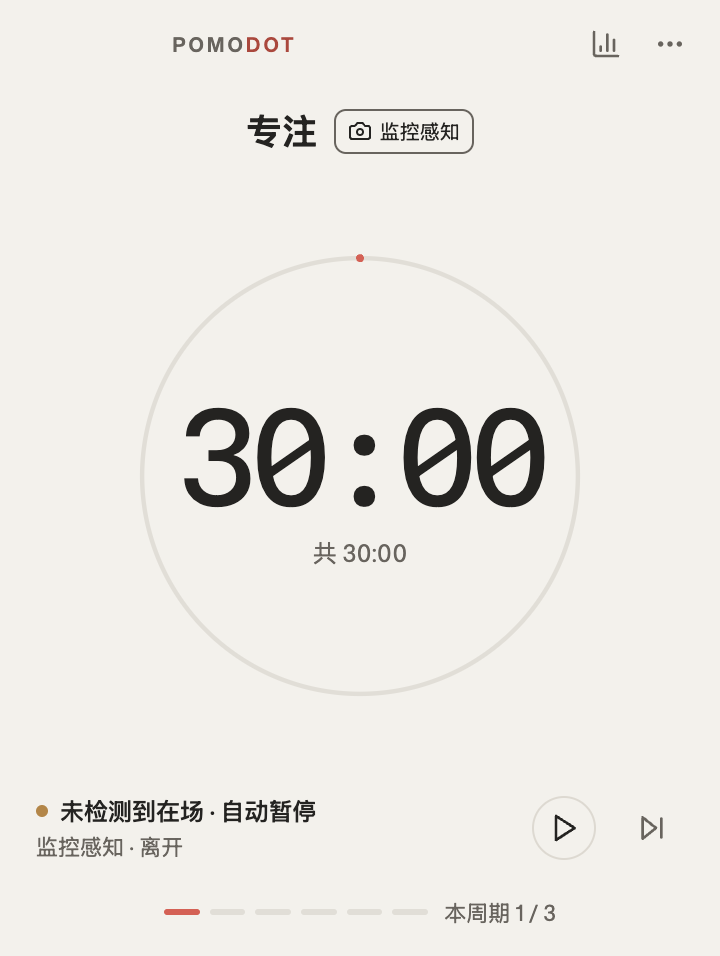
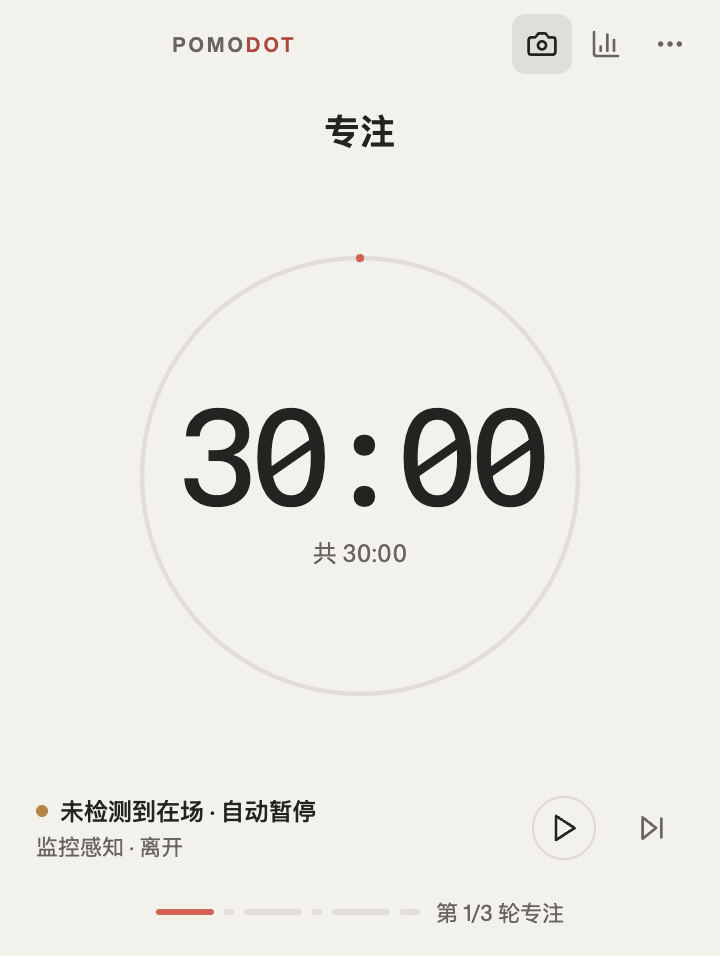
docs: record sensing interaction rules and verified delivery

diff --git a/docs/request-flow.md b/docs/request-flow.md
@@ -11,21 +11,21 @@ React -> preload -> Main IPC -> TimerEngine -> SqliteStore
 
 Renderer 启动时并行读取计时快照、设置和摄像头生命周期状态，并订阅经 schema 校验的事件。
 
-点击开始、暂停、继续、下一轮或重置时，React 调用 `window.pomodoro.command`。Preload 和 Main 分别做 schema 校验，Main 将命令交给唯一 TimerEngine；成功迁移后保存快照，并通过 `pomodoro:event` 广播到窗口和托盘。Renderer 从事件更新显示，不自行扣减权威剩余时间。
+点击开始、暂停、继续、下一轮或重置时，或在计时器页按空格执行开始/暂停/继续时，React 调用 `window.pomodoro.command`。Preload 和 Main 分别做 schema 校验，Main 将命令交给唯一 TimerEngine；成功迁移后保存快照，并通过 `pomodoro:event` 广播到窗口和托盘。Renderer 从事件更新显示，不自行扣减权威剩余时间。空格不拦截表单、菜单、其他控件、统计或设置页，不重复处理长按、组合键及输入法组合状态。
 
 Main 每秒读取 `powerMonitor.getSystemIdleTime()`，只将秒数交给 TimerEngine。TimerEngine 根据阈值计算 `present/away`，遵循专注、活动休息和桌前休息规则；采样失败安全暂停并显示降级状态，用户明确继续后可手动计时，首次有效样本恢复自动化。suspend 事件冻结运行轮次并写入安全暂停状态；lock-screen 建立门禁，unlock-screen 解除门禁但等待下一有效样本才决定恢复。静止且状态未变化的输入不重复写入数据库。
 
-主界面默认「触控」。用户选择「监控」时，Renderer 通过 `updateSettings({ focusPresenceSource: "camera" })` 提交选择；Main 先安全暂停运行中的专注、清空旧摄像头状态，再签发新的 `{ enabled, generation }`，经 `camera.state` 通知 Renderer。Renderer 只在启用状态请求视频权限，在本地初始化 MediaPipe/BlazeFace 并约每秒检测两次，约每 500ms 通过 `reportCameraPresence(presence, generation)` 提交三态。Preload 和 Main 校验严格的 `{ presence, generation }`，Main 拒绝旧代次报告，再由 TimerEngine 根据当前轮次和手动暂停锁处理。两种休息始终根据系统输入管理；打开统计或设置不会重开摄像头。
+主界面默认「触控」。用户选择「监控」时，Renderer 通过 `updateSettings({ focusPresenceSource: "camera" })` 提交选择；Main 在当前实际来源变化时安全暂停运行中的轮次、清空旧摄像头状态，再签发新的 `{ enabled, generation }`，经 `camera.state` 通知 Renderer。Renderer 只在启用状态请求视频权限，在本地初始化 MediaPipe/BlazeFace 并约每秒检测两次，约每 500ms 通过 `reportCameraPresence(presence, generation)` 提交三态。Preload 和 Main 校验严格的 `{ presence, generation }`，Main 拒绝旧代次报告，再由 TimerEngine 根据当前轮次和手动暂停锁处理。监控模式下，在场自动开始专注、离席自动开始活动休息；桌前休息始终使用系统输入。未结束的专注离席只暂停，不提前切轮。打开统计或设置不会重开摄像头。
 
 Renderer 为权限、视频和模型启动设置 20 秒期限，Main 等待首个有效样本的上限为 25 秒。摄像头权限拒绝、设备中断、启动超时、有效报告间隔超过 5 秒或 Renderer 丢失时，Main 将摄像头标为 `unknown`、停止旧代次并持久化回退触控，通过 `settings.changed` 和可恢复错误说明回退原因。专注等待新的输入样本，手动暂停保持锁定。选择触控、锁屏/睡眠和退出会释放摄像头；锁屏/睡眠恢复若仍选监控，重新签发代次并等待新样本。摄像头帧、检测框与设备信息不经过 preload，也不写入 SQLite。
 
-专注完成后，TimerEngine 生成等待条件的休息轮并广播快照。Main 的输入采样驱动休息自动开始或恢复。休息的剩余时间仍等于总时长，且当前处于 `idle` 或因 `break-condition` 自动暂停时，Renderer 提供“手动开始休息”。用户点击后，前者发送 `start`，后者发送 `resume`。
+专注完成后，TimerEngine 生成等待条件的休息轮并广播快照。Main 使用当前实际输入源或摄像头源驱动自动休息，不要求先点击播放。采用输入的休息准备期由有效闲置样本推导 `automation.breakPreparation`；默认先显示“无输入 40 秒开始休息”，第 30 秒起显示 `10…1`，第 40 秒才开始正式休息。中途输入重新等待完整阈值，准备时间不抵扣正式休息剩余时间；该准备状态不进入检查点。
 
-休息已有进度、因最近有输入而暂停时，Renderer 显示“有输入 · 休息暂停”，按钮改为“继续计时”。用户点击后发送 `resume`。手动暂停和输入故障也提供“继续计时”，由 TimerEngine 按原有规则处理。
+专注中手动暂停形成锁，只有用户继续才能解除。休息中暂停不形成永久锁：未点暂停或点过暂停，都继续参与自动休息；下一有效休息条件可自动开始或恢复，不额外强制等待一遍阈值。实际键鼠操作产生新的输入时，输入来源会自然重新等待完整阈值。旧检查点中手动暂停的休息轮在恢复时转为自动等待，进度不变，旧的专注锁仍保留。
 
 拖动计时器留白时，由系统移动窗口。拖动边缘时，Main 按内容区域约束尺寸，Renderer 根据可用宽高排版。初始内容区域为 360×478，可缩至 160×180，高度最多为宽度的 1.5 倍。缩到最小时，暂停原因和继续按钮仍然可见。点击继续才会向 Main 发送 `resume`。
 
-在计时器上点击统计图标，Renderer 在当前窗口切换到统计页。点击“更多操作”可打开设置、查看统计或重置当前轮次。统计和设置均可返回计时器。
+在计时器右上角，感知模式按钮位于统计图标左侧，提交模式设置时仍经过同一 IPC 链。在计时器上点击统计图标，Renderer 在当前窗口切换到统计页。点击“更多操作”可打开设置、查看统计或重置当前轮次。统计和设置均可返回计时器。底部周期条按各阶段计划时长分配宽度，当前轮按已分配的总时长显示；当前位置与真实完成量分别命名。
 
 设置页面提交后，Main 验证 patch、持久化设置、更新置顶状态并广播快照。统计页面调用 `getStatistics`，由 Store 按本机日期聚合完成专注记录。Renderer 不能访问 SQLite、Node、Electron 或任意未列出的 channel。
 

diff --git a/docs/roadmap.md b/docs/roadmap.md
@@ -2,16 +2,16 @@
 
 ## 当前交付：Phase 1 与本地摄像头感知
 
-当前实现以 Electron + React + TypeScript 为唯一运行架构，不再有 Go/Rust sidecar。代码和自动化验证已覆盖以下闭环；发布门仍需完成真实平台验证：
+当前实现以 Electron + React + TypeScript 为唯一运行架构，不再有 Go/Rust sidecar。当前交付与本轮交互调整范围如下；历史自动化结果见对应验证记录，本轮结果需单独记录，发布门仍需完成真实平台验证：
 
-- 主进程唯一 TimerEngine：默认 `30/5/30/5/30/10`、开始/暂停/继续/下一轮/重置、手动暂停锁、自动暂停与恢复、睡眠/重启安全恢复。
+- 主进程唯一 TimerEngine：默认 `30/5/30/5/30/10`、开始/暂停/继续/下一轮/重置、专注手动暂停锁、休息继续参与自动化、自动暂停与恢复、睡眠/重启安全恢复。
 - `powerMonitor.getSystemIdleTime()` 系统级输入采样，输入故障可见且进入手动安全回退。
 - active/desk 休息策略、设置持久化与当前轮/下一轮生效边界。
 - SQLite 事务迁移、完成专注记录、今日/本周/最近 52 周统计。
 - 托盘、通知、关闭到托盘、置顶、事件广播、浅色/深色/跟随系统主题。拖动窗口边缘可缩成 160×180 的挂件，高度最多为宽度的 1.5 倍。小窗仍显示轮次、剩余时间、暂停原因、圆形操作按钮和统计入口。
 - 受限 preload、严格 CSP、Zod 运行时 IPC 校验、Vitest 状态机测试和 Playwright Electron E2E。
 - 单实例数据保护、锁屏门禁、检测故障下显式手动计时、字段级设置错误恢复、存储故障备份与用户选择重建、实时统计事件；静止检查点和托盘更新去重。
-- 按用户明确需求增加 Phase 2 本地摄像头感知：默认触控，主动选择监控，MediaPipe/BlazeFace 本地推断，主进程按三态信号管理专注；两种休息继续使用输入。此范围变更不代表 Phase 1 的所有真机发布门已通过。
+- 按用户明确需求增加 Phase 2 本地摄像头感知：默认触控，主动选择监控，MediaPipe/BlazeFace 本地推断，主进程按三态信号自动开始/暂停监控专注与活动休息；桌前休息继续使用输入。此范围变更不代表 Phase 1 的所有真机发布门已通过。
 
 ## Phase 1 发布门
 
@@ -32,17 +32,17 @@
 
 自动化验证与真机验收分别记录，模拟媒体流和模拟电源事件不能替代操作系统权限及物理设备检查。
 
-1. 状态机覆盖源切换、监控专注不受输入干扰、两种休息仍采用输入、unknown 安全暂停、手动暂停锁、睡眠/锁屏/重启后等待新样本。
-2. Renderer 验证默认触控不调用摄像头、模式控件与状态提示、初始化取消、模型/视频失败后释放资源，以及迟到异步结果清理。
-3. Electron E2E 验证严格 preload/IPC、旧代次拒绝、初始化/心跳超时回退和设置事件同步。原生 SQLite 验证监控设置重启保留、检查点没有在场状态或检测代次。
+1. 状态机覆盖源切换、监控专注自动开始且不受输入干扰、监控活动休息采用摄像头、桌前休息采用输入、unknown 安全暂停、专注手动暂停锁、休息暂停不锁自动化，以及睡眠/锁屏/重启后等待新样本。
+2. Renderer 验证默认触控不调用摄像头、右上角模式按钮位置、空格快捷键边界、休息准备期最后 10 秒可见倒数、按时长分配的周期条、初始化取消、模型/视频失败后释放资源，以及迟到异步结果清理。
+3. Electron E2E 验证严格 preload/IPC、旧代次拒绝、初始化/心跳超时回退和设置事件同步。原生 SQLite 验证监控设置重启保留、检查点没有在场状态、准备期倒数或检测代次；旧的手动暂停休息可恢复自动等待，专注锁保持有效。
 4. 打包产物应包含本地模型、SIMD/非 SIMD WASM 和许可证；断网时可初始化检测，CSP 不依赖远程脚本或模型。
 
 | 真机项目 | macOS | Windows |
 | --- | --- | --- |
 | 默认触控无摄像头请求；首次允许/拒绝授权及系统设置撤销 | 待验收 | 待验收 |
-| 正常光照下在场、转头、离开 3 秒、回归；手动暂停锁 | 待验收 | 待验收 |
+| 正常光照下专注在场自动开始、活动休息离席开始、转头/回归；专注手动暂停锁 | 待验收 | 待验收 |
 | 外接摄像头拔出、设备占用、断网启动、重复切换释放指示灯 | 待验收 | 待验收 |
-| 最小化/隐藏/托盘后台检测；睡眠/锁屏释放与恢复新样本 | 待验收 | 待验收 |
+| 最小化/隐藏/托盘后台检测；睡眠/锁屏释放与恢复新样本；准备倒数重置 | 待验收 | 待验收 |
 | 安装包摄像头用途声明、权限提示和实际资源加载 | 待验收 | 待验收 |
 
 本表在本次代码开发时不宣称真机通过。执行验收时补充 OS、架构、构建/提交及结果；任一平台未通过时不得把模拟 E2E 记为该平台已通过。

diff --git a/README.md b/README.md
@@ -36,10 +36,10 @@ beta.2 已知问题：
 
 ## 主要功能
 
-- **可配置节奏**：默认 `30 / 5 / 30 / 5 / 30 / 10` 分钟，三轮专注后进入长休；可调整各轮时长和每周期专注轮数。
-- **输入闲置检测**：默认连续 40 秒无系统输入后暂停专注，恢复输入后按状态自动继续；手动暂停不会被自动解除。
-- **感知模式（开发版）**：默认触控，可主动切换监控，以本地摄像头在场信号管理专注。摄像头失败时提示并回退触控；两种休息继续使用系统输入。
-- **两种休息模式**：活动休息与桌前休息。当前均基于无输入信号判断开始与暂停，不代表已验证离席、走动或运动。
+- **可配置节奏**：默认 `30 / 5 / 30 / 5 / 30 / 10` 分钟，三轮专注后进入长休；可调整各轮时长和每周期专注轮数，底部周期条按计划时长分配宽度并标明当前位置。
+- **输入闲置检测**：默认连续 40 秒无系统输入后暂停专注，恢复输入后按状态自动继续；专注中的手动暂停不会被自动解除。
+- **感知模式（开发版）**：默认触控，右上角统计按钮左侧可切换监控。监控会在确认在场后自动开始专注，离席后自动计时活动休息；摄像头失败时提示并回退触控。
+- **两种休息模式**：活动休息在监控模式下依据摄像头离席，在触控模式下依据无输入；桌前休息始终依据无输入。准备期最后 10 秒可见倒数，不抵扣正式休息时长；休息按过暂停仍可自动恢复，不代表已验证走动或运动。
 - **本地统计**：今日、本周和最近 52 周热力图；只有完整完成的专注轮才计入统计，跳过或重置不计入。
 - **桌面控制**：拖动窗口边缘缩放计时器，拖动留白移动窗口。支持置顶、托盘菜单、系统通知，以及浅色/深色/跟随系统主题。
 - **恢复与数据保护（主分支）**：睡眠与重启不补计离线时间；锁屏门禁、输入故障下的显式手动计时、单实例保护、SQLite 故障备份与用户确认重建。
@@ -54,12 +54,12 @@ beta.2 已知问题：
 
 ### 基本使用
 
-1. 打开应用，点击开始进入第一轮专注。
-2. 专注完整结束后进入休息轮。休息默认等待无输入条件，也可手动开始；再次输入仍可能自动暂停休息。
-3. 使用暂停/继续控制当前轮，或点击下一步跳过；下一轮专注需要手动开始。
+1. 默认触控模式下，点击开始或按空格进入第一轮专注；监控模式确认在场后自动开始首次和下一轮专注。
+2. 专注完整结束后进入休息轮，满足对应离席或无输入条件即自动开始。默认输入准备期显示“无输入 40 秒开始休息”，无输入到第 30 秒显示 `10…1`，第 40 秒正式计时；出现输入会重新等待。
+3. 空格可开始、暂停或继续当前轮，也可点击下一步跳过。专注中的手动暂停锁住自动恢复；休息无论是否按过暂停，满足条件仍会自动计时。设置、统计、输入框和菜单中的空格不作为全局计时快捷键。
 4. 点击计时器右上角的统计图标查看专注记录，点击“更多操作”打开设置。修改节奏后，正在运行的轮次仍按原计划计时。[设置生效时机](docs/product-spec.md#2-默认配置与设置)
 5. 在开发版中，拖动窗口边缘调整大小，拖动计时器上的留白移动窗口。内容区域最小为 160×180，宽 160 px 时最高可拉到 240 px。小窗仍显示轮次、剩余时间和暂停原因，可直接点圆形播放按钮继续，或点统计图标查看记录。[查看最小窗口](docs/assets/screenshots/drag-minimum-interrupted-break.png)
-6. 开发版主界面的感知模式默认触控。选择监控并授予摄像头权限后，以人脸在场信号管理专注；切回触控即可停止摄像头。监控权限与实际设备仍需按[摄像头验证门](docs/roadmap.md#摄像头验证门)验收。
+6. 开发版主界面的感知模式默认触控。选择监控并授予摄像头权限后，以人脸在场信号管理专注和活动休息；切回触控即可停止摄像头。监控权限与实际设备仍需按[摄像头验证门](docs/roadmap.md#摄像头验证门)验收。
 
 ## 本地数据与隐私
 

diff --git a/docs/sensing-interaction-validation.md b/docs/sensing-interaction-validation.md
@@ -1,0 +1,33 @@
+# 感知交互修订验证
+
+2026-11-08，按用户确认的交互规则修订 `codex/camera-presence`。计时规则提交为 `6710635`，界面、快捷键和跨进程测试提交为 `c4cea9a`；文档提交另行收尾。平台为 Apple Silicon、macOS 26.4.1（25E253）、Node.js 24.15.0、Electron 33.4.11。
+
+## 结果
+
+- 触控专注由按钮或空格开始；监控专注在确认在场后自动开始，包括首次和下一轮。专注手动暂停锁优先。
+- 监控活动休息由摄像头离席启动，桌前休息由系统输入闲置启动。休息没暂停或按过暂停都继续参与自动计时，不建立手动锁；旧版本休息锁在重启时规范化，保留剩余时长。
+- 输入休息准备期显示“无输入 40 秒开始休息”，最后十秒显示倒数；输入回归重新等待。准备时间不抵扣正式休息时长。
+- 感知按钮位于统计按钮左侧；底部阶段条按计划时长分配宽度，文字区分当前位置与已完成量。
+
+## 已执行检查
+
+| 检查 | 结果 |
+| --- | --- |
+| `npm run lint`、`npm run typecheck` | 通过 |
+| `npm run test` | 208 项通过，其中 TimerEngine 72、共享契约 12、Renderer 54 |
+| `npm run test:store` | 17 项真实 SQLite 测试通过；包含旧休息锁恢复与准备提示不入检查点 |
+| `npm run test:e2e` 后同步旧文案断言，再执行 `npx playwright test` | 完整 21 项通过；首轮仅两项旧文案断言不匹配，新行为测试已通过 |
+| 真实空格键、主按钮原生激活回归 | 使用 Playwright `keyboard.press("Space")` 在已聚焦主按钮上开始、暂停、继续，单独重跑通过；设置说明修正后的 54 项组件测试也通过 |
+| `node scripts/validate-renderer-layout.mjs` | 通过；160×180 下三个头部按钮可点击，不覆盖 macOS 原生按钮；实际阶段宽度符合 6:1 和 2:1 比例 |
+| `CSC_IDENTITY_AUTO_DISCOVERY=false npm run package --workspace=@pomodoro/desktop -- --config.directories.output=dist/interaction` | ARM64 应用与 DMG 生成成功，`hdiutil verify` 校验通过；未签名 |
+| 指向新版打包应用运行 `camera.e2e.ts` | 6 项通过，包含真实本地模型推理、自动专注/活动休息、桌前输入休息、暂停逻辑或和空格操作 |
+
+状态机和组件回归先在旧实现上见红，再修改实现。跨进程用例也确认旧版缺少右上角模式入口。所有自动化使用独立临时用户数据，摄像头用例使用 Chromium 模拟设备；没有替用户点击摄像头授权，也没有在测试中读取物理摄像头。
+
+截图已同步：[触控初始页](assets/screenshots/timer-light.png)、[监控离开暂停](assets/screenshots/camera-monitor.png)、[休息准备倒数](assets/screenshots/break-preparation.png)、[最小休息窗口](assets/screenshots/drag-minimum-interrupted-break.png)。文档截图随当前开发版更新，历史截图可通过对应 Git 提交复现。
+
+## 本地交付与边界
+
+新版应用位于 `apps/desktop/dist/interaction/mac-arm64/Pomodoro Timer.app`，安装镜像位于 `apps/desktop/dist/interaction/Pomodot-0.1.0-beta.2-mac-arm64.dmg`。独立输出目录避免构建时覆盖用户正在运行的旧包。已正常退出旧实例并打开新版，核对界面资源路径指向新构建、模式按钮在统计左侧、页脚显示“第 1/3 轮专注”；保留原用户数据，没有代用户启动计时或摄像头。
+
+Windows 真机、OS 授权撤销、物理摄像头在不同光照下的检测以及真实锁屏/睡眠仍需按[发布验证门](roadmap.md#摄像头验证门)验收。本轮模拟输入、媒体和电源事件不代替这些项目；尚未推送、合并或发布。

diff --git a/docs/README.md b/docs/README.md
@@ -4,6 +4,7 @@
 
 | 要确认的问题 | 从哪里看 |
 | --- | --- |
+| 周期、阶段和完成量有什么区别？ | [领域词汇](../GLOSSARY.md)区分当前位置、已完成专注和休息准备期。 |
 | 用户会看到什么，怎样判断行为正确？ | [产品规格](./product-spec.md)含计时状态机、设置、界面、故障与验收场景。 |
 | 现在做什么，还有哪些真机检查？ | [路线图](./roadmap.md)区分当前阶段、发布门和后续阶段。 |
 | 谁持有计时状态，谁能读写数据库？ | [技术架构](./architecture.md)定义进程职责、时间来源和测试边界。 |
@@ -12,18 +13,20 @@
 | 为什么采用这样的节奏和隐私边界？ | [研究与决策](./research-and-decisions.md)记录证据、取舍和重新评估条件。 |
 | 如何给跨进程和状态机代码写注释？ | [代码注释约定](./code-commenting.md)含格式和示例。 |
 | 本地摄像头感知做了哪些验证？ | [摄像头开发验证](./camera-presence-validation.md)记录自动化、打包检查和真机边界。 |
+| 自动休息、空格和模式按钮这轮改了什么？ | [交互对齐记录](./sensing-interaction-design.md)与[修订验证](./sensing-interaction-validation.md)记录已确认规则和交付检查。 |
 | 字体和视觉参考从哪里来？ | [第三方声明](./third-party-notices.md)说明素材来源。 |
 
 固定原则：本地离线、macOS/Windows 首发、默认 `30/5/30/5/30/10`、输入只传递闲置秒数、不记录敏感输入或相机内容、完成专注才统计、失败检测不伪造可靠 presence。
 
 ## 产品截图
 
-以下截图取自 macOS 26.4.1（Apple Silicon）上的真实 Electron 测试窗口，使用独立临时数据目录。初始计时器、监控感知和设置图随本次开发更新；监控图使用 Chromium 模拟摄像头和真实本地模型，不采集物理摄像头。休息图和统计图保留此前的开发版截图。[历史截图对应提交 f90e522](https://github.com/Jaxon1216/PomoTimer/commit/f90e5228f04fa2105de747dfa5681daad079ad52)
+以下截图取自 macOS 26.4.1（Apple Silicon）上的真实 Electron 测试窗口，使用独立临时数据目录。初始计时器、监控感知、准备倒数和最小休息窗口随交互修订更新；监控图使用 Chromium 模拟摄像头和真实本地模型，不采集物理摄像头。其他截图保留此前开发版本，可在对应 Git 历史中复现。[较早截图对应提交 f90e522](https://github.com/Jaxon1216/PomoTimer/commit/f90e5228f04fa2105de747dfa5681daad079ad52)
 
 | 界面 | 可查看的状态 |
 | --- | --- |
 | [初始计时器](./assets/screenshots/timer-light.png) | 第一轮专注，等待用户开始。 |
 | [监控感知](./assets/screenshots/camera-monitor.png) | 无脸画面识别为离开，专注自动暂停；可直接切回触控。 |
+| [休息准备倒数](./assets/screenshots/break-preparation.png) | 无输入达到第 35 秒，提示 5 秒后开始，正式休息仍为完整 5 分钟。 |
 | [拖小窗口](./assets/screenshots/long-break-waiting-compact.png) | 220×240 小窗等待开始 10 分钟活动休息，测试的闲置阈值为 600 秒。 |
 | [最小窗口](./assets/screenshots/drag-minimum-interrupted-break.png) | 在 160×180 的窗口中，短休因输入暂停，可直接点击圆形播放按钮继续。 |
 | [设置](./assets/screenshots/settings-dark.png) | 切换到深色主题，开启常驻顶部。 |

diff --git a/AGENTS.md b/AGENTS.md
@@ -2,7 +2,7 @@
 
 ## Product scope
 
-Pomodoro Timer is a local-first Electron desktop focus timer for macOS and Windows. Phase 1 includes React/TypeScript UI, a main-process timer core, system-input monitoring, configurable `30/5/30/5/30/10` cycles, active/desk breaks, local statistics, heatmap, tray controls, notifications, compact layout, and light/dark/system themes. Phase 2 adds opt-in local camera presence for focus rounds; system input remains the default and controls both break modes. Phase 3 may add manual standing sessions.
+Pomodoro Timer is a local-first Electron desktop focus timer for macOS and Windows. Phase 1 includes React/TypeScript UI, a main-process timer core, system-input monitoring, configurable `30/5/30/5/30/10` cycles, active/desk breaks, local statistics, heatmap, tray controls, notifications, compact layout, and light/dark/system themes. Phase 2 adds opt-in local camera presence for focus and active-break rounds; system input remains the default and always controls desk breaks. Phase 3 may add manual standing sessions.
 
 Do not add accounts, cloud sync, telemetry, calendar scheduling, identity recognition, medical claims, Linux support, strict camera anti-spoofing, HTTP/WebSocket services, or child-process cores without an explicit scope change.
 
@@ -28,10 +28,10 @@ scripts/        development, verification, packaging, and release helpers
 - Validate every IPC input and every event payload with Zod; reject unknown commands and fields.
 - System input is represented only by seconds since the last system-wide input event. Never collect key values, mouse coordinates, active windows, screen contents, embeddings, or identity data. In opt-in camera mode, Renderer may process transient frames locally to derive presence, but must never retain, transmit, log, or persist frames, face boxes, or device labels.
 - Camera permission is restricted to the main window's trusted main frame while camera mode is selected. Deny microphone and unrelated permissions. Camera reports contain only presence and a Main-issued generation; stale or failed streams safely fall back to input with a visible reason.
-- Keep idle samples and derived presence in memory. Recover timer progress from SQLite and determine presence from a fresh sample after launch. Test checkpoint changes with a real database.
+- Keep idle samples, break-preparation countdowns, and derived presence in memory. Recover timer progress from SQLite and determine presence from a fresh sample after launch. Test checkpoint changes with a real database.
 - Phase 1 input monitoring uses Electron `powerMonitor.getSystemIdleTime()` on macOS and Windows. Failure is visible, becomes `unknown`, and safely pauses an active round; idle/manual-paused rounds are not started or overridden.
-- Automatic pause never decrements time. Manual pause locks automatic resume until the user presses continue.
-- Sleep and restart turn an active round into `auto-paused`; offline time never counts.
+- Automatic pause never decrements time. Manual pause locks automatic resume only during focus, until the user presses continue. Breaks remain eligible for automatic start/resume whether or not the user pressed pause.
+- Sleep and restart turn an active round into `auto-paused`; offline time never counts. Normalize legacy manually paused breaks to automatic waiting without changing their remaining time; preserve focus pause locks.
 
 ## Engineering rules
 

diff --git a/docs/sensing-interaction-design.md b/docs/sensing-interaction-design.md
@@ -1,0 +1,23 @@
+# 感知交互对齐记录
+
+状态：用户已确认全部规则，已实现并完成自动化与本地打包验证，见[验证记录](sensing-interaction-validation.md)。继续使用 `codex/camera-presence` 分支；计时规则提交为 `6710635`，界面与测试提交为 `c4cea9a`，原工作目录的其他本地修改保持原样。
+
+## 已确认的方向
+
+- 感知模式按钮放到右上角、统计按钮左侧，显示当前触控或监控模式。
+- 触控专注由按钮或空格开始，无输入达到阈值后暂停，恢复输入可继续。
+- 监控专注在确认在场后自动开始，包括首次和下一轮；离席暂停、回归继续。未结束的专注不因离席而跳到休息轮。
+- 活动休息在触控模式下使用无输入条件，在监控模式下使用摄像头离席条件；桌前休息始终使用无输入条件。
+- 专注未结束时，手动暂停优先于自动计时，不能被恢复输入或回归镜头自动解除。
+- 输入休息等待时显示“无输入 40 秒开始休息”；第 30 秒起显示剩余 10 秒倒数，第 40 秒满足条件后开始正式休息。中途出现输入就取消倒数并重新等待完整阈值。准备期与正式休息时长分开。
+- 默认周期为专注、短休、专注、短休、专注、长休。底部六段按计划时长分配宽度；默认比例为 `30:5:30:5:30:10`。当前位置与实际完成量使用不同措辞。
+
+## 已确认的暂停边界
+
+用户明确 `||` 指逻辑或，不是按钮图标：进入休息阶段后，没有暂停或点过暂停，都可以在满足休息条件时进入自动休息。休息暂停不建立永久锁，也不额外强制重新等待一遍阈值；实际键鼠操作会自然重置输入闲置时间。专注未结束时，手动暂停仍高于自动计时，必须手动继续。
+
+旧版本写入的手动暂停休息在重启时转为自动等待，剩余时间保持不变；专注锁保留。
+
+## 实施与后续验收
+
+已先添加状态机回归，再同步 TimerEngine、共享快照、Renderer 和权威规格。自动化覆盖空格快捷键、右上角按钮、准备倒数、按时长分配的周期条、自动休息、手动操作及最小窗口。变更分批提交并重新打包；实际设备与 Windows 验收按路线图继续记录。

diff --git a/CHANGELOG.md b/CHANGELOG.md
@@ -6,10 +6,11 @@
 
 ### 改动
 
-- 新增「监控 / 触控」感知模式切换，默认触控。主动开启监控后，本地摄像头在场信号管理专注暂停与恢复；休息继续根据系统输入管理。摄像头拒绝授权、断开或检测失败时提示并回退触控；画面不保存、不上传。
+- 新增「监控 / 触控」感知模式切换，默认触控，入口在右上角统计按钮左侧。监控确认在场后自动开始专注，离席后自动计时活动休息；桌前休息仍依据系统输入。摄像头拒绝授权、断开或检测失败时提示并回退触控；画面不保存、不上传。
+- 空格可在计时器页开始、暂停和继续；专注的手动暂停锁保持优先，休息无论是否点过暂停，满足条件仍自动开始或恢复。周期条按各阶段计划时长分配宽度，文案区分当前位置与实际完成量。
 - 系统输入在场状态只在内存中使用，重启后重新采样。升级时清理可读取的旧计时快照中的在场信息，保留轮次、剩余时间和历史统计；已生成的旧备份保持原样。
 - 拖动窗口边缘即可把计时器缩成桌面挂件，拖动留白可移动窗口。最小内容区域为 160×180，高度最多为宽度的 1.5 倍，宽矮窗口也可使用。小窗保留暂停原因、圆形计时按钮和直接统计入口。macOS 菜单栏中的计时更清晰。
-- 等待休息时可预记达到闲置阈值前最多 10 秒的倒计时。达到阈值后才扣除实际观测时间，中途收到输入则取消预记。
+- 输入休息准备期默认显示“无输入 40 秒开始休息”，无输入第 30 秒起显示最后 10 秒倒数，第 40 秒开始正式休息；准备期不抵扣休息时长，中途出现输入重新等待完整阈值。
 - 锁屏暂停计时，持续输入检测故障时可手动继续。再次打开应用会唤起原窗口；打开数据库失败时先备份，运行中存储失败会冻结计时并提示。
 - 设置错误可在原字段修正，统计页停留时会随已完成专注记录更新。
 
